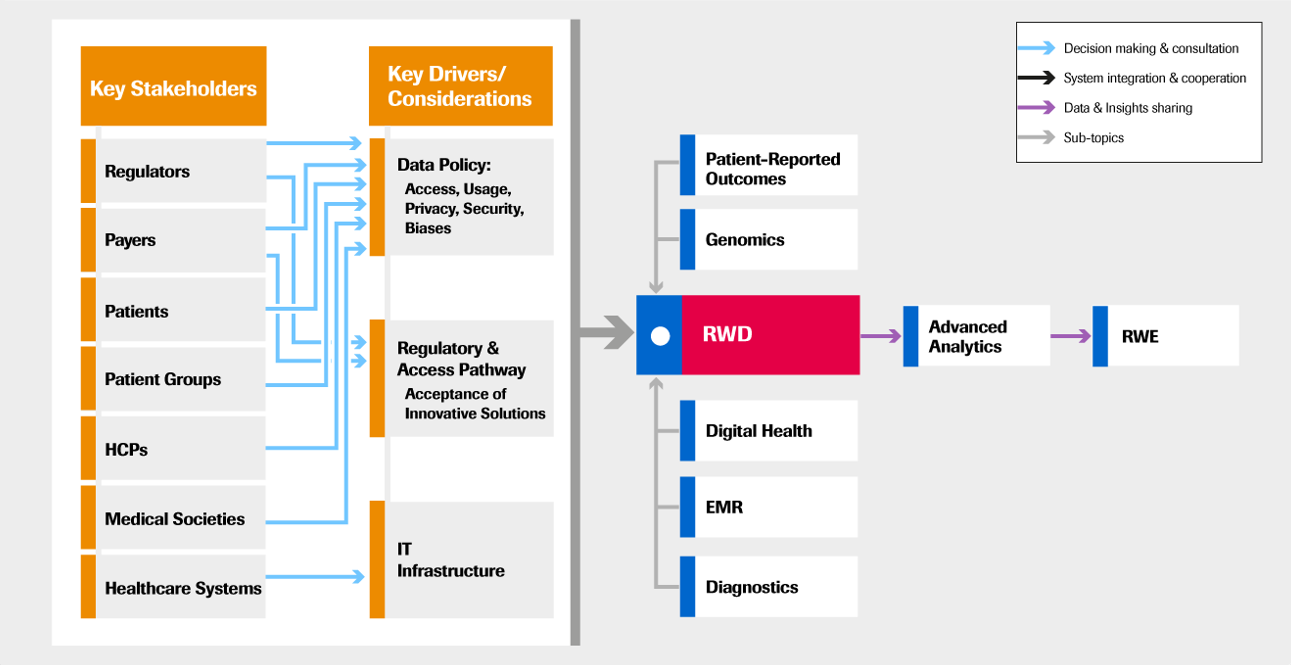
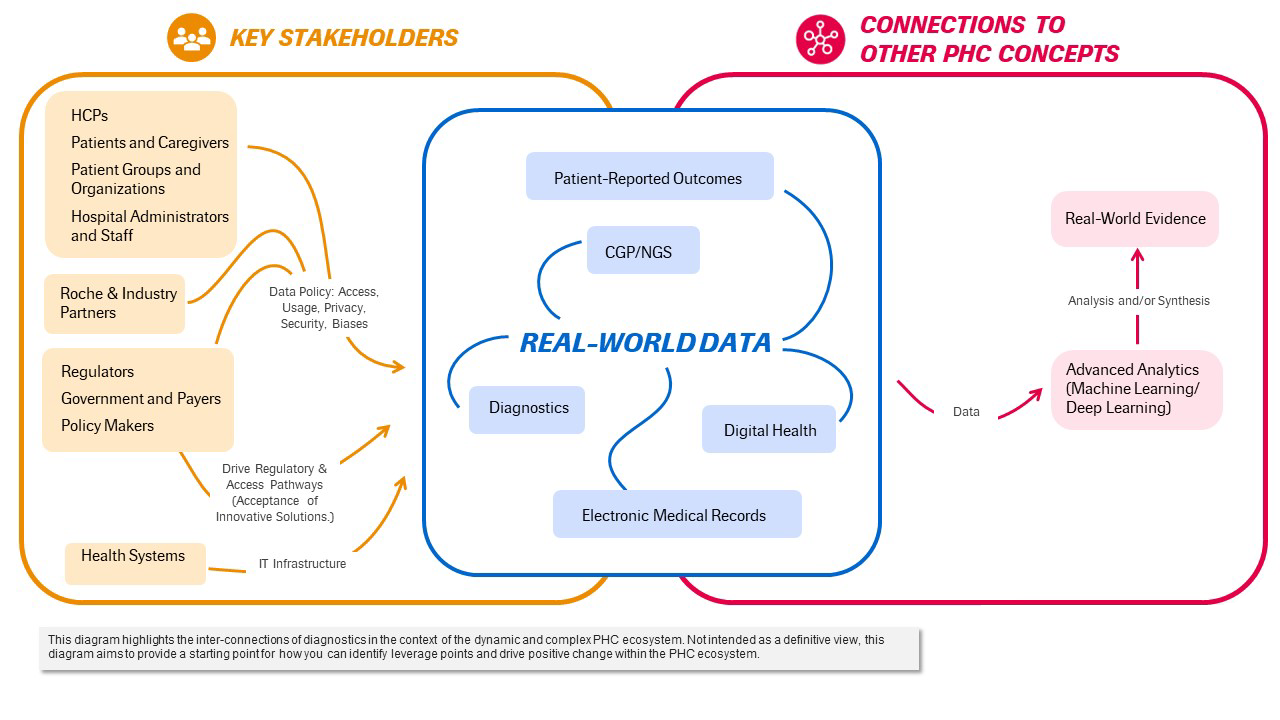
Fix modal images

Changed region(s): [[0.0, 0.0, 1.0, 0.9624], [0.8438, 0.3008, 0.9375, 0.3609], [0.8438, 0.391, 0.9375, 0.4211]]

diff --git a/src/pages/journey/data/RealWorldData.js b/src/pages/journey/data/RealWorldData.js
@@ -13,7 +13,6 @@ import rwdConnection from '../../../assets/pages/journey/rwd-connection.png';
 import zoomOutIcon from '../../../assets/pages/journey/journey-zoom-out.png';
 import journeyConnection from '../../../assets/pages/journey/journey-connection-map.png';
 import zoomInIcon from '../../../assets/pages/journey/journey-zoom-in.png';
-import cdsConnection from '../../../assets/pages/journey/cds-connection-content.png';
 import DropDown from '../../../atoms/DropDown';
 
 const navOptions = [
@@ -332,7 +331,7 @@ RWD is a key component of our PHC vision and strategy because:
     <>
       {zoomOut ? (
         <>
-          <img src={cdsConnection} alt="cds connection" />
+          <img src={rwdConnection} alt="cds connection" />
           <div
             className="zoom-out-button position-absolute d-flex align-items-center justify-content-center"
             onClick={() => handleZoomClick()}
@@ -378,20 +377,7 @@ RWD is a key component of our PHC vision and strategy because:
 
   const connectionHeader = (
     <>
-      {zoomOut ? (
-        <>
-          <img src={connectionIcon} alt="connection icon" />
-          <div className="connection-title">
-            <h2>Where Real-World Data Fit Within PHC</h2>
-            <div>
-              The following diagram highlights the inter-connections of RWD m the context
-              of the dynamic and complex PHC ecosystem. Not intended as a definitive view,
-              this diagram aims to provide a starting point for how you can identify leverage
-              points and effect positive change within the PHC ecosystem
-            </div>
-          </div>
-        </>
-      ) : (
+      {!zoomOut && (
         <>
           <img src={connectionIcon} alt="connection icon" className="zoom-in-icon" />
           <div className="connection-title zoom-out">

diff --git a/src/index.css b/src/index.css
@@ -290,9 +290,9 @@
   height: 100%; }
 
 .connection-modal .custom-modal-container {
+  border-radius: 0;
   padding: 0; }
   .connection-modal .custom-modal-container .custom-modal-header {
-    height: 100px;
     padding-left: 40px; }
     .connection-modal .custom-modal-container .custom-modal-header img {
       width: 60px;
@@ -307,7 +307,7 @@
       .connection-modal .custom-modal-container .custom-modal-header .connection-title div {
         font-size: 12px; }
   .connection-modal .custom-modal-container .custom-modal-content {
-    height: calc(100% - 100px); }
+    height: 100%; }
     .connection-modal .custom-modal-container .custom-modal-content img {
       width: 100%;
       height: 100%; }
@@ -323,10 +323,11 @@
   font-size: 12px;
   text-align: left;
   padding: 5px;
+  box-shadow: 0 0 6px 0;
   cursor: pointer; }
 
 .connection-modal .zoom-out-button:hover {
-  background-color: #b5e9fe99;
+  background-color: #B5E9FE;
   border-color: #01a3f899; }
 
 .connection-modal .zoom-in-button {

diff --git a/src/pages/journey/monitoring/CDSSystems.js b/src/pages/journey/monitoring/CDSSystems.js
@@ -334,20 +334,7 @@ function MonitoringCDSSystems() {
 
   const connectionHeader = (
     <>
-      {zoomOut ? (
-        <>
-          <img src={connectionIcon} alt="connection icon" />
-          <div className="connection-title">
-            <h2>Where CDS Fit Within PHC</h2>
-            <div>
-              The following diagram highlights the inter-connections of CDS systems in the context of the dynamic
-              and complex PHC ecosystem. Not intended as a definitive view this diagram aims to
-              provide a starting point for how you can identify leverage points and effect positive
-              change within the PHC ecosystem.
-            </div>
-          </div>
-        </>
-      ) : (
+      {!zoomOut && (
         <>
           <img src={connectionIcon} alt="connection icon" className="zoom-in-icon" />
           <div className="connection-title zoom-out">

diff --git a/src/pages/journey/diagnosis/CDSSystems.js b/src/pages/journey/diagnosis/CDSSystems.js
@@ -344,20 +344,7 @@ function DiagnosisCDSSystems() {
 
   const connectionHeader = (
     <>
-      {zoomOut ? (
-        <>
-          <img src={connectionIcon} alt="connection icon" />
-          <div className="connection-title">
-            <h2>Where CDS Fit Within PHC</h2>
-            <div>
-              The following diagram highlights the inter-connections of CDS systems in the context of the dynamic
-              and complex PHC ecosystem. Not intended as a definitive view this diagram aims to
-              provide a starting point for how you can identify leverage points and effect positive
-              change within the PHC ecosystem.
-            </div>
-          </div>
-        </>
-      ) : (
+      {!zoomOut && (
         <>
           <img src={connectionIcon} alt="connection icon" className="zoom-in-icon" />
           <div className="connection-title zoom-out">

diff --git a/src/pages/journey/access/CDSSystems.js b/src/pages/journey/access/CDSSystems.js
@@ -314,20 +314,7 @@ function AccessCDSSystems() {
 
   const connectionHeader = (
     <>
-      {zoomOut ? (
-        <>
-          <img src={connectionIcon} alt="connection icon" />
-          <div className="connection-title">
-            <h2>Where CDS Fit Within PHC</h2>
-            <div>
-              The following diagram highlights the inter-connections of CDS systems in the context of the dynamic
-              and complex PHC ecosystem. Not intended as a definitive view this diagram aims to
-              provide a starting point for how you can identify leverage points and effect positive
-              change within the PHC ecosystem.
-            </div>
-          </div>
-        </>
-      ) : (
+      {!zoomOut && (
         <>
           <img src={connectionIcon} alt="connection icon" className="zoom-in-icon" />
           <div className="connection-title zoom-out">

diff --git a/src/pages/journey/care/CDSSystems.js b/src/pages/journey/care/CDSSystems.js
@@ -324,20 +324,7 @@ function CareCDSSystems() {
 
   const connectionHeader = (
     <>
-      {zoomOut ? (
-        <>
-          <img src={connectionIcon} alt="connection icon" />
-          <div className="connection-title">
-            <h2>Where CDS Fit Within PHC</h2>
-            <div>
-              The following diagram highlights the inter-connections of CDS systems in the context of the dynamic
-              and complex PHC ecosystem. Not intended as a definitive view this diagram aims to
-              provide a starting point for how you can identify leverage points and effect positive
-              change within the PHC ecosystem.
-            </div>
-          </div>
-        </>
-      ) : (
+      {!zoomOut && (
         <>
           <img src={connectionIcon} alt="connection icon" className="zoom-in-icon" />
           <div className="connection-title zoom-out">

diff --git a/src/sass/common/modal.scss b/src/sass/common/modal.scss
@@ -112,10 +112,10 @@
 
 .connection-modal {
   .custom-modal-container {
+    border-radius: 0;
     padding: 0;
 
     .custom-modal-header {
-      height: 100px;
       padding-left: 40px;
 
       img {
@@ -142,7 +142,7 @@
     }
 
     .custom-modal-content {
-      height: calc(100% - 100px);
+      height: 100%;
       img {
         width: 100%;
         height: 100%;
@@ -161,11 +161,12 @@
     font-size: 12px;
     text-align: left;
     padding: 5px;
+    box-shadow: 0 0 6px 0;
     cursor: pointer;
   }
 
   .zoom-out-button:hover {
-    background-color: #b5e9fe99;
+    background-color: #B5E9FE;
     border-color: #01a3f899;
   }
 
